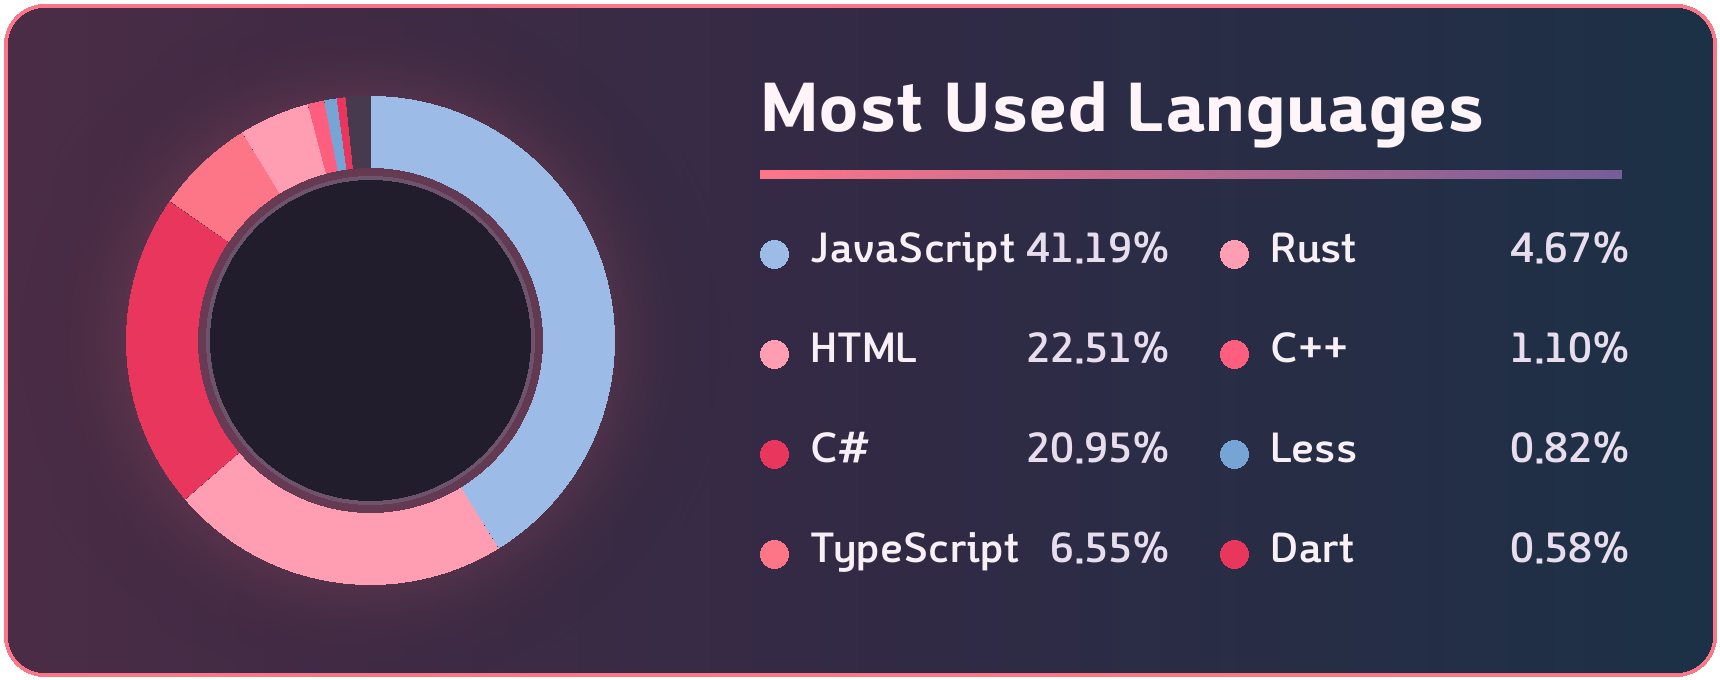
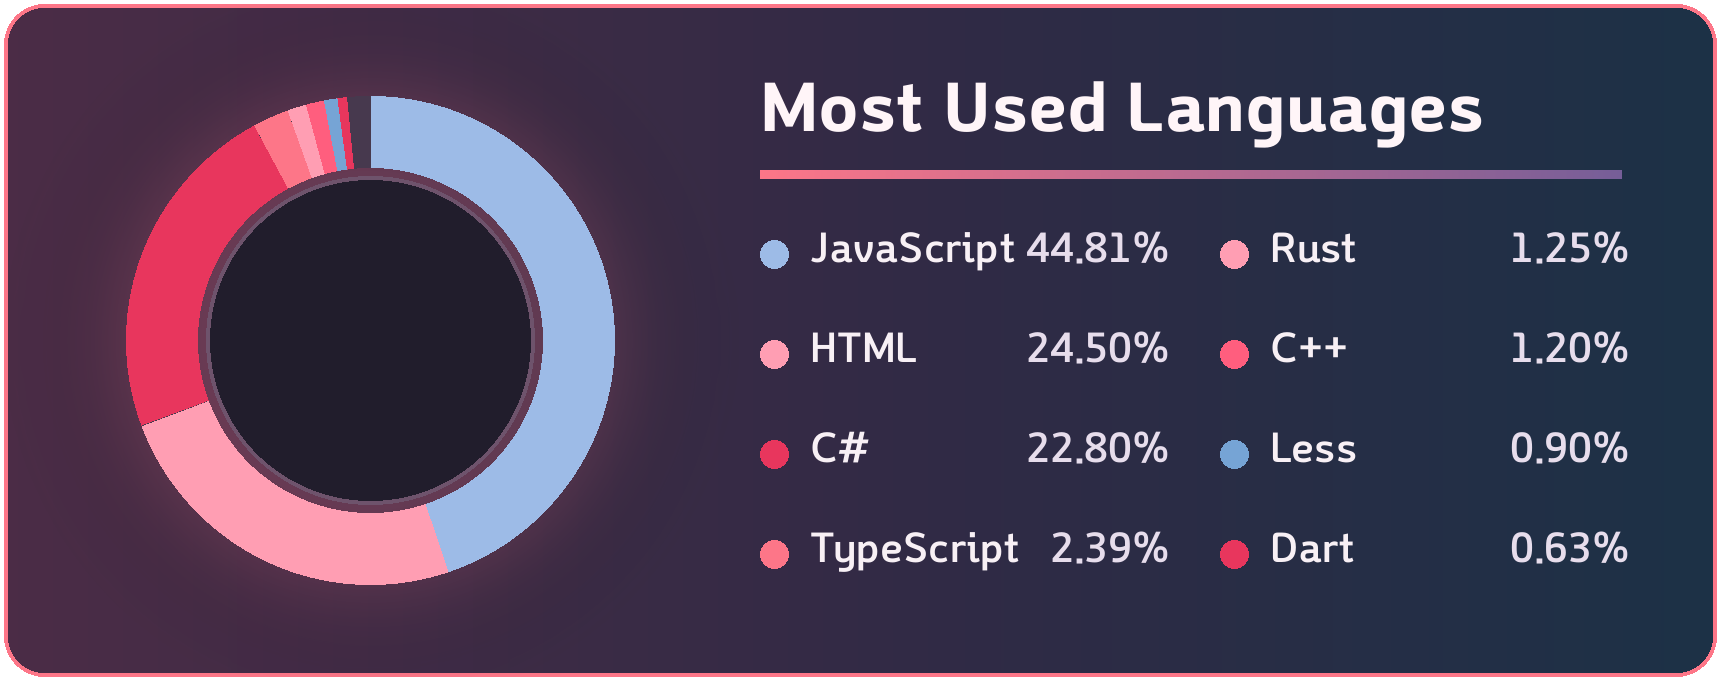
언어 게이지 갱신

diff --git a/README.md b/README.md
@@ -20,7 +20,7 @@
 ![Engineering and coding tools](./assets/engineering-skills.svg)
 
 <div align="center">
-<img src="https://raw.githubusercontent.com/FMsongX2/FMsongX2/main/assets/hanabi-github-languages-46d5c7596a9d.gif" alt="가운데 잠자는 하나비가 움직이는 공개·비공개 저장소 언어 게이지" width="49.14%" align="top" />&emsp;&emsp;<a href="https://solved.ac/profile/songsong97"><img src="https://mazassumnida.wtf/api/v2/generate_badge?boj=songsong97" alt="songsong97 solved.ac 프로필" width="40%" align="top" /></a>
+<img src="https://raw.githubusercontent.com/FMsongX2/FMsongX2/main/assets/hanabi-github-languages-74a93c9d86b3.gif" alt="가운데 잠자는 하나비가 움직이는 공개·비공개 저장소 언어 게이지" width="49.14%" align="top" />&emsp;&emsp;<a href="https://solved.ac/profile/songsong97"><img src="https://mazassumnida.wtf/api/v2/generate_badge?boj=songsong97" alt="songsong97 solved.ac 프로필" width="40%" align="top" /></a>
 </div>
 
 <p align="center">
